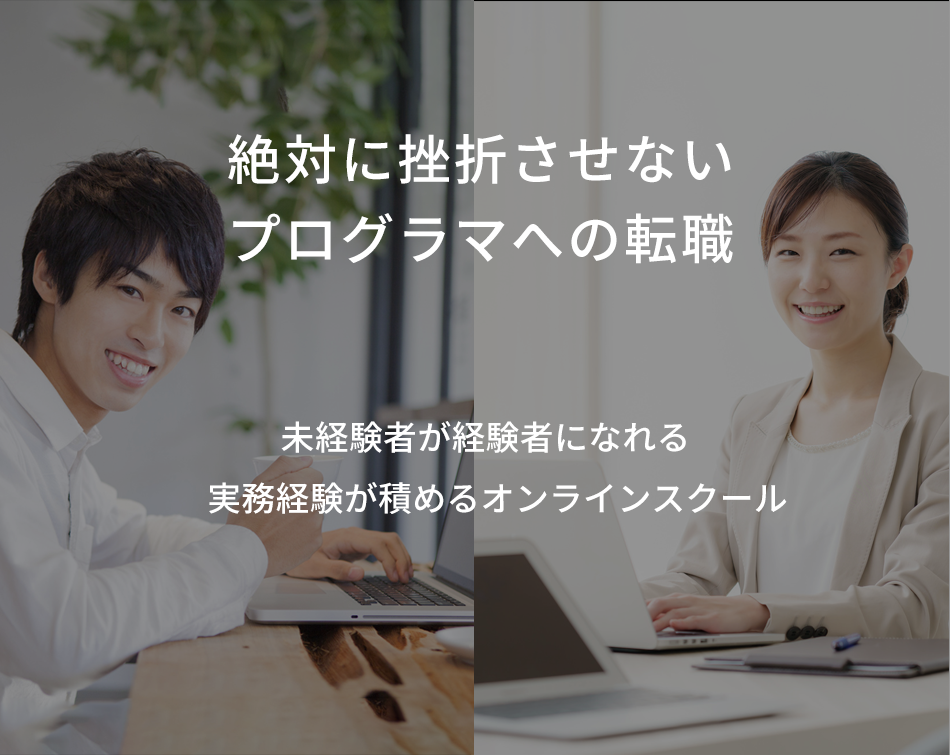
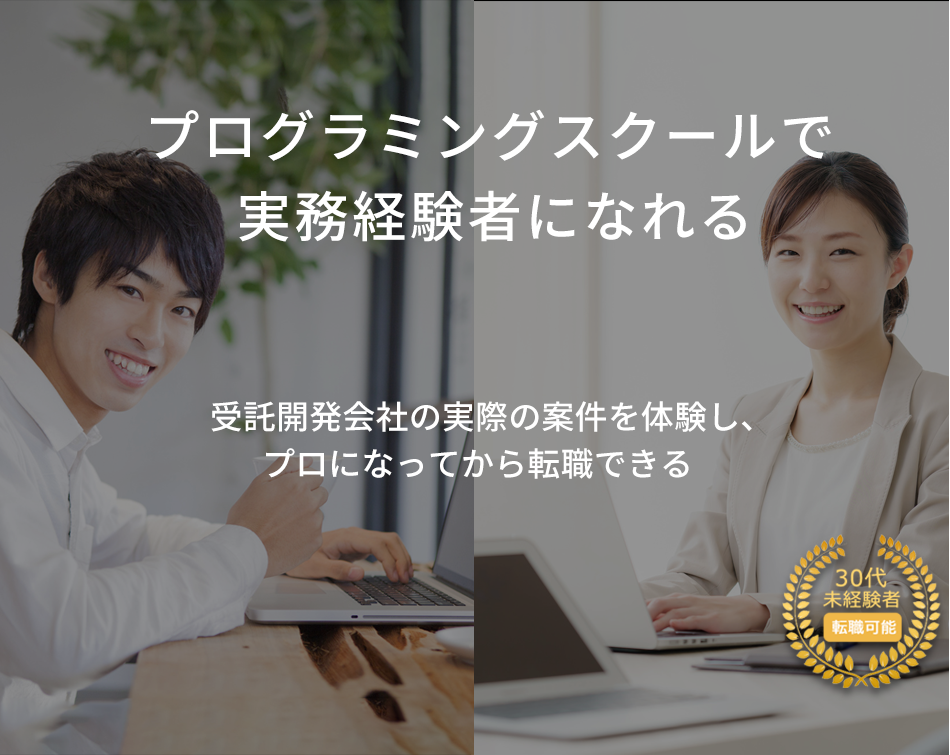
ファーストビュー修正、スマホハンバーガメニュー、権威付け変更

Changed region(s): [[0.1526, 0.1523, 0.8853, 0.3656], [0.2137, 0.5179, 0.8242, 0.7007], [0.8242, 0.7007, 1.0, 0.9139]]

diff --git a/consumer/style.css b/consumer/style.css
@@ -1,7 +1,7 @@
 body{
 	margin: 0px;
 	padding: 0px;
-	font-family: sans-serif,"HG明朝E",Georgia, "游明朝体", "YuMincho", "游明朝", "Yu Mincho", "ヒラギノ明朝 ProN W3", "Hiragino Mincho ProN W3", HiraMinProN-W3, "ヒラギノ明朝 ProN", "Hiragino Mincho ProN", "ヒラギノ明朝 Pro", "Hiragino Mincho Pro", "HGS明朝E", "ＭＳ Ｐ明朝", "MS PMincho",serif;
+	font-family: "游ゴシック体", "sans-selif", Georgia, "游明朝体", "YuMincho", "游明朝", "Yu Mincho", "ヒラギノ明朝 ProN W3", "Hiragino Mincho ProN W3", HiraMinProN-W3, "ヒラギノ明朝 ProN", "Hiragino Mincho ProN", "ヒラギノ明朝 Pro", "Hiragino Mincho Pro", "HGS明朝E", "ＭＳ Ｐ明朝", "MS PMincho",serif;
 }
 div#wrapper{
 	width: 100%;
@@ -50,7 +50,7 @@ div#ham img{
 	display: none;
 }
 ul#globalnav{
-	width: 60%;
+	width: 65%;
 	padding: 0px;
 	font-size: 19px;
 	display: -webkit-box;
@@ -58,7 +58,7 @@ ul#globalnav{
 	display: flex;
 	position: absolute;
 	top: 1.5%;
-	left: 40%;
+	left: 37%;
 }
 ul#globalnav li{
 	list-style: none;
@@ -68,6 +68,7 @@ ul#globalnav li a{
 	text-decoration: none;
 	color: #ffffff;
 }
+
 .f_btn{
 	width: 35%;
 	position: absolute;
@@ -228,8 +229,8 @@ div#ham img{
 }
 .btn {
     display: block;
-    width: 50px;
-    height: 50px;
+    width: 40px;
+    height: 40px;
     position: fixed;
     top:0%;
     right:0%;
@@ -329,7 +330,7 @@ div#footer{
 	display: block;
 }
 .logo{
-	width: 50%;
+	width: 40%;
 	top: 0;
 	left: 0;
 }

diff --git a/consumer/index.html b/consumer/index.html
@@ -242,7 +242,7 @@
 						<div class="s_mv s_mb10">
 							<img class="s_dn" src="img/mobile_img19.jpg" />
 							<div class="s_tuduki s_dn">
-								<p><a href="voice1.html">>>続きを読む</a></p>
+								<p><a href="voice1.html">>> 続きを読む</a></p>
 							</div>
 						</div>
 
@@ -257,7 +257,7 @@
 						<div class="s_mv s_mb15">
 						<img class="s_dn" src="img/mobile_img20.jpg" />
 						<div class="s_tuduki s_dn">
-								<p><a href="voice2.html">>>続きを読む</a></p>
+								<p><a href="voice2.html">>> 続きを読む</a></p>
 						</div>
 						
 						</div>
